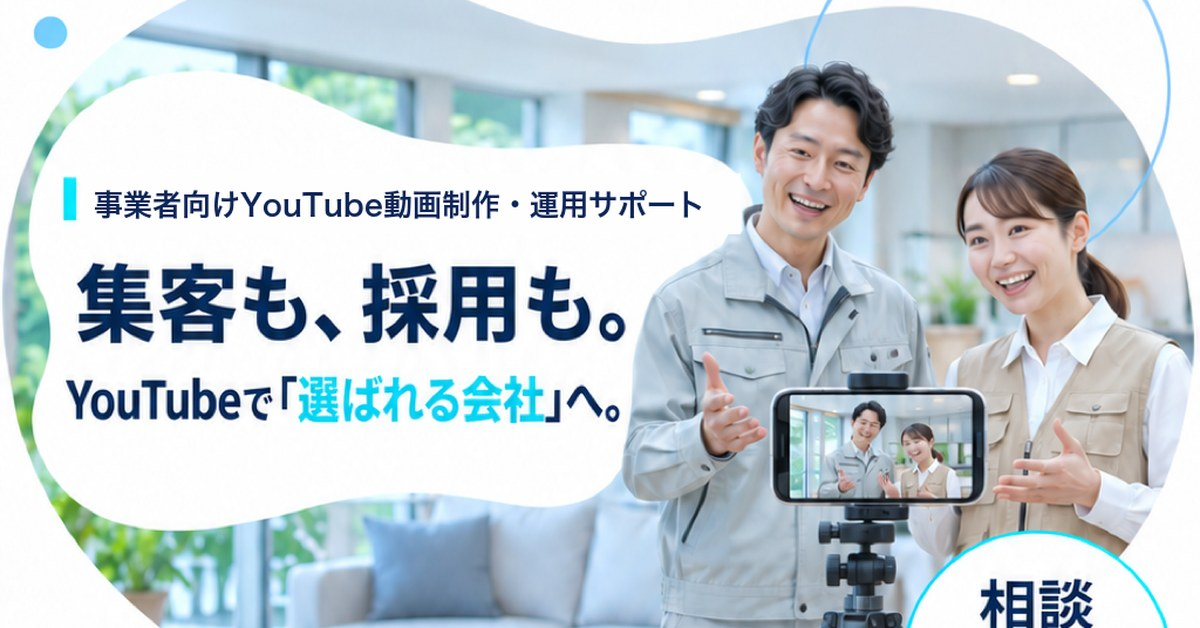
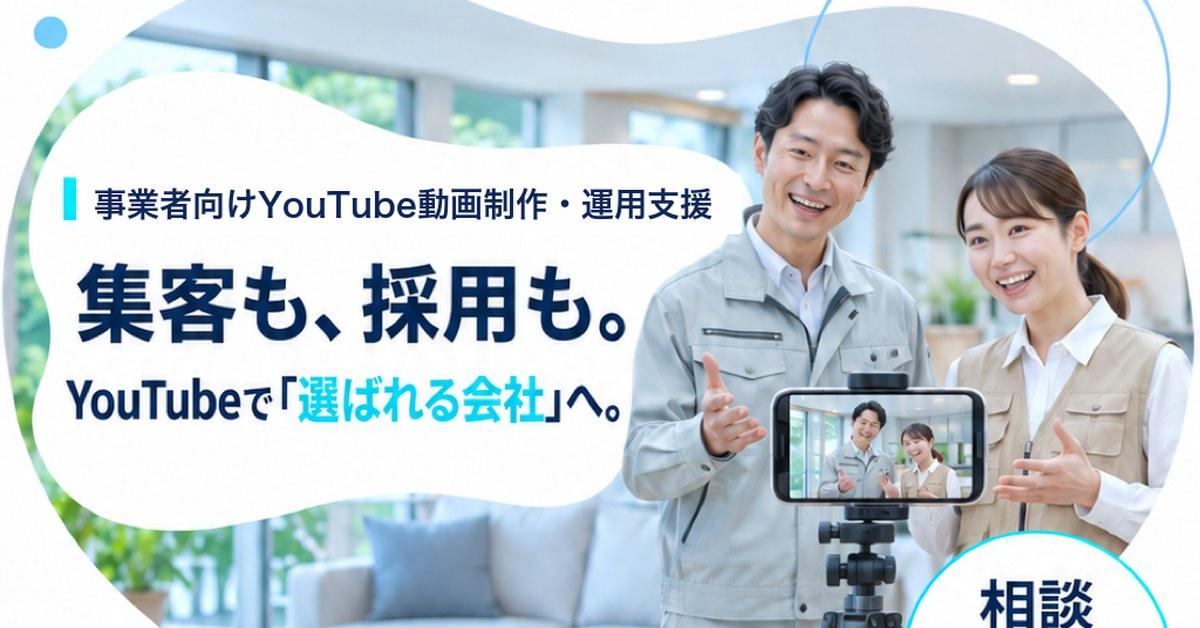
FVの小見出しを「事業者向けYouTube動画制作・運用支援」に（og画像とaltも合わせる）

Changed region(s): [[0.0617, 0.3025, 0.6167, 0.3631]]

diff --git a/index.html b/index.html
@@ -18,7 +18,7 @@
 
 <section class="sec fv">
   <h1 class="sr">集客も、採用も。YouTubeで「選ばれる会社」へ。</h1>
-  <img src="images/h-01-fv-v7.webp" width="1024" height="1792" alt="RunMate。事業者向けYouTube動画制作・運用サポート。集客も、採用も。YouTubeで「選ばれる会社」へ。RunMateのキャラクターのラン「YouTube担当は、RunMateにおまかせ！」認知を広げる、商品が売れる、採用につながる。相談無料。動画の制作本数1,000本以上、30社以上の事業者をご支援。">
+  <img src="images/h-01-fv-v8.webp" width="1024" height="1792" alt="RunMate。事業者向けYouTube動画制作・運用支援。集客も、採用も。YouTubeで「選ばれる会社」へ。RunMateのキャラクターのラン「YouTube担当は、RunMateにおまかせ！」認知を広げる、商品が売れる、採用につながる。相談無料。動画の制作本数1,000本以上、30社以上の事業者をご支援。">
   <a class="imgbtn" href="https://line.me/R/ti/p/@417zbasn" target="_blank" rel="noopener" style="left:5.9%;top:74.1%;width:88.2%"><small>初月35%OFF</small>公式LINEで無料相談 →</a>
 </section>
 <section class="sec">
